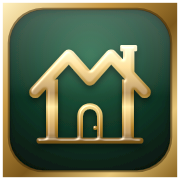
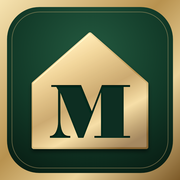
Icônes : M Bodoni gravé dans une maison dorée, Visite avec bloc-notes
- icone.svg : maison pleine en or en relief, M Bodoni Black gravé en vert
- icone-visite.svg : contour de maison et M en or, bloc-notes en liste
- PNG 180/192/512 régénérés en carré plein
- charte/sources/gen_icones.py : script générateur (M converti en tracé)

diff --git a/charte/sources/gen_icones.py b/charte/sources/gen_icones.py
@@ -1,0 +1,82 @@
+"""Génère icone.svg et icone-visite.svg (piste D3 / Visite D1) + variantes carrées pour les PNG."""
+import sys, os
+from fontTools.ttLib import TTFont
+from fontTools.pens.svgPathPen import SVGPathPen
+from fontTools.pens.boundsPen import BoundsPen
+from fontTools.pens.transformPen import TransformPen
+
+OUT = sys.argv[1]      # dossier du dépôt
+TMP = sys.argv[2]      # scratchpad
+
+font = TTFont('C:/Windows/Fonts/BOD_BLAR.TTF')
+gs = font.getGlyphSet()
+gname = font.getBestCmap()[ord('M')]
+bp = BoundsPen(gs); gs[gname].draw(bp)
+xmin, ymin, xmax, ymax = bp.bounds
+pp = SVGPathPen(gs); gs[gname].draw(pp)
+MPATH = pp.getCommands()
+
+def m_glyph(cx, base, h, attrs):
+    s = h / (ymax - ymin)
+    w = (xmax - xmin) * s
+    tx = cx - w / 2 - xmin * s
+    ty = base + ymin * s
+    pen = SVGPathPen(gs, ntos=lambda v: f"{v:.1f}")
+    gs[gname].draw(TransformPen(pen, (s, 0, 0, -s, tx, ty)))
+    return f'<path d="{pen.getCommands()}" {attrs}/>'
+
+DEFS = '''<defs>
+  <linearGradient id="or" gradientUnits="userSpaceOnUse" x1="150" y1="96" x2="330" y2="430">
+    <stop offset="0" stop-color="#fff1c4"/><stop offset=".28" stop-color="#e2c486"/>
+    <stop offset=".55" stop-color="#b8924f"/><stop offset=".75" stop-color="#e8cf95"/><stop offset="1" stop-color="#8a6630"/>
+  </linearGradient>
+  <linearGradient id="orCadre" x1="0" y1="0" x2="1" y2="1">
+    <stop offset="0" stop-color="#f6e3b0"/><stop offset=".45" stop-color="#b8924f"/>
+    <stop offset=".7" stop-color="#ecd49c"/><stop offset="1" stop-color="#7d5a28"/>
+  </linearGradient>
+  <radialGradient id="fond" cx=".5" cy=".28" r=".85">
+    <stop offset="0" stop-color="#245a40"/><stop offset=".55" stop-color="#123a28"/><stop offset="1" stop-color="#071a11"/>
+  </radialGradient>
+  <filter id="relief" x="-10%" y="-10%" width="120%" height="125%">
+    <feGaussianBlur in="SourceAlpha" stdDeviation="2.5" result="b"/>
+    <feSpecularLighting in="b" surfaceScale="5" specularConstant="1" specularExponent="24" lighting-color="#fff6dc" result="s"><feDistantLight azimuth="235" elevation="50"/></feSpecularLighting>
+    <feComposite in="s" in2="SourceAlpha" operator="in" result="s2"/>
+    <feComposite in="SourceGraphic" in2="s2" operator="arithmetic" k2="1" k3=".55" result="lit"/>
+    <feDropShadow in="lit" dx="0" dy="7" stdDeviation="6" flood-color="#000" flood-opacity=".55"/>
+  </filter>
+  <filter id="grave" x="-5%" y="-5%" width="110%" height="110%">
+    <feOffset dy="3"/><feGaussianBlur stdDeviation="2" result="o"/>
+    <feComposite in="SourceAlpha" in2="o" operator="out" result="in"/>
+    <feFlood flood-color="#000" flood-opacity=".7"/><feComposite in2="in" operator="in" result="ombre"/>
+    <feMerge><feMergeNode in="SourceGraphic"/><feMergeNode in="ombre"/></feMerge>
+  </filter>
+</defs>'''
+
+def plaque(rx):
+    return (f'<rect width="512" height="512" rx="{rx}" fill="url(#orCadre)"/>'
+            '<rect x="20" y="20" width="472" height="472" rx="92" fill="url(#fond)"/>'
+            '<rect x="34" y="34" width="444" height="444" rx="80" fill="none" stroke="#c9ab74" stroke-opacity=".45" stroke-width="2"/>')
+
+def icone(rx):
+    return (plaque(rx) +
+        '<g filter="url(#relief)"><path d="M96 238 L256 98 L416 238 L416 418 L96 418 Z" fill="url(#or)" stroke="url(#or)" stroke-width="12" stroke-linejoin="round"/></g>' +
+        m_glyph(256, 392, 150, 'fill="#0f2f20" filter="url(#grave)"'))
+
+NOTES = '''<g transform="rotate(-6 398 388)"><g filter="url(#relief)"><rect x="318" y="290" width="160" height="196" rx="20" fill="url(#or)"/></g>
+<rect x="352" y="276" width="92" height="30" rx="10" fill="#0b2318" stroke="url(#or)" stroke-width="8"/>
+<g fill="#0f2f20"><circle cx="350" cy="346" r="9"/><circle cx="350" cy="394" r="9"/><circle cx="350" cy="442" r="9"/></g>
+<g stroke="#0f2f20" stroke-width="12" stroke-linecap="round"><path d="M372 346 H450"/><path d="M372 394 H450"/><path d="M372 442 H428"/></g></g>'''
+
+def visite(rx):
+    return (plaque(rx) +
+        '<g filter="url(#relief)"><path d="M100 236 L256 102 L412 236 L412 414 L100 414 Z" fill="none" stroke="url(#or)" stroke-width="30" stroke-linejoin="round"/>' +
+        m_glyph(256, 386, 143, 'fill="url(#or)"') + '</g>' + NOTES)
+
+def svg(body, titre):
+    return f'<svg xmlns="http://www.w3.org/2000/svg" viewBox="0 0 512 512">\n<title>{titre}</title>\n{DEFS}\n{body}\n</svg>\n'
+
+open(os.path.join(OUT, 'icone.svg'), 'w', encoding='utf-8').write(svg(icone(112), 'Marchéo'))
+open(os.path.join(OUT, 'icone-visite.svg'), 'w', encoding='utf-8').write(svg(visite(112), 'Marchéo · Visite'))
+open(os.path.join(TMP, 'carre-icone.svg'), 'w', encoding='utf-8').write(svg(icone(0), 'Marchéo'))
+open(os.path.join(TMP, 'carre-icone-visite.svg'), 'w', encoding='utf-8').write(svg(visite(0), 'Marchéo · Visite'))
+print('ok', gname)
